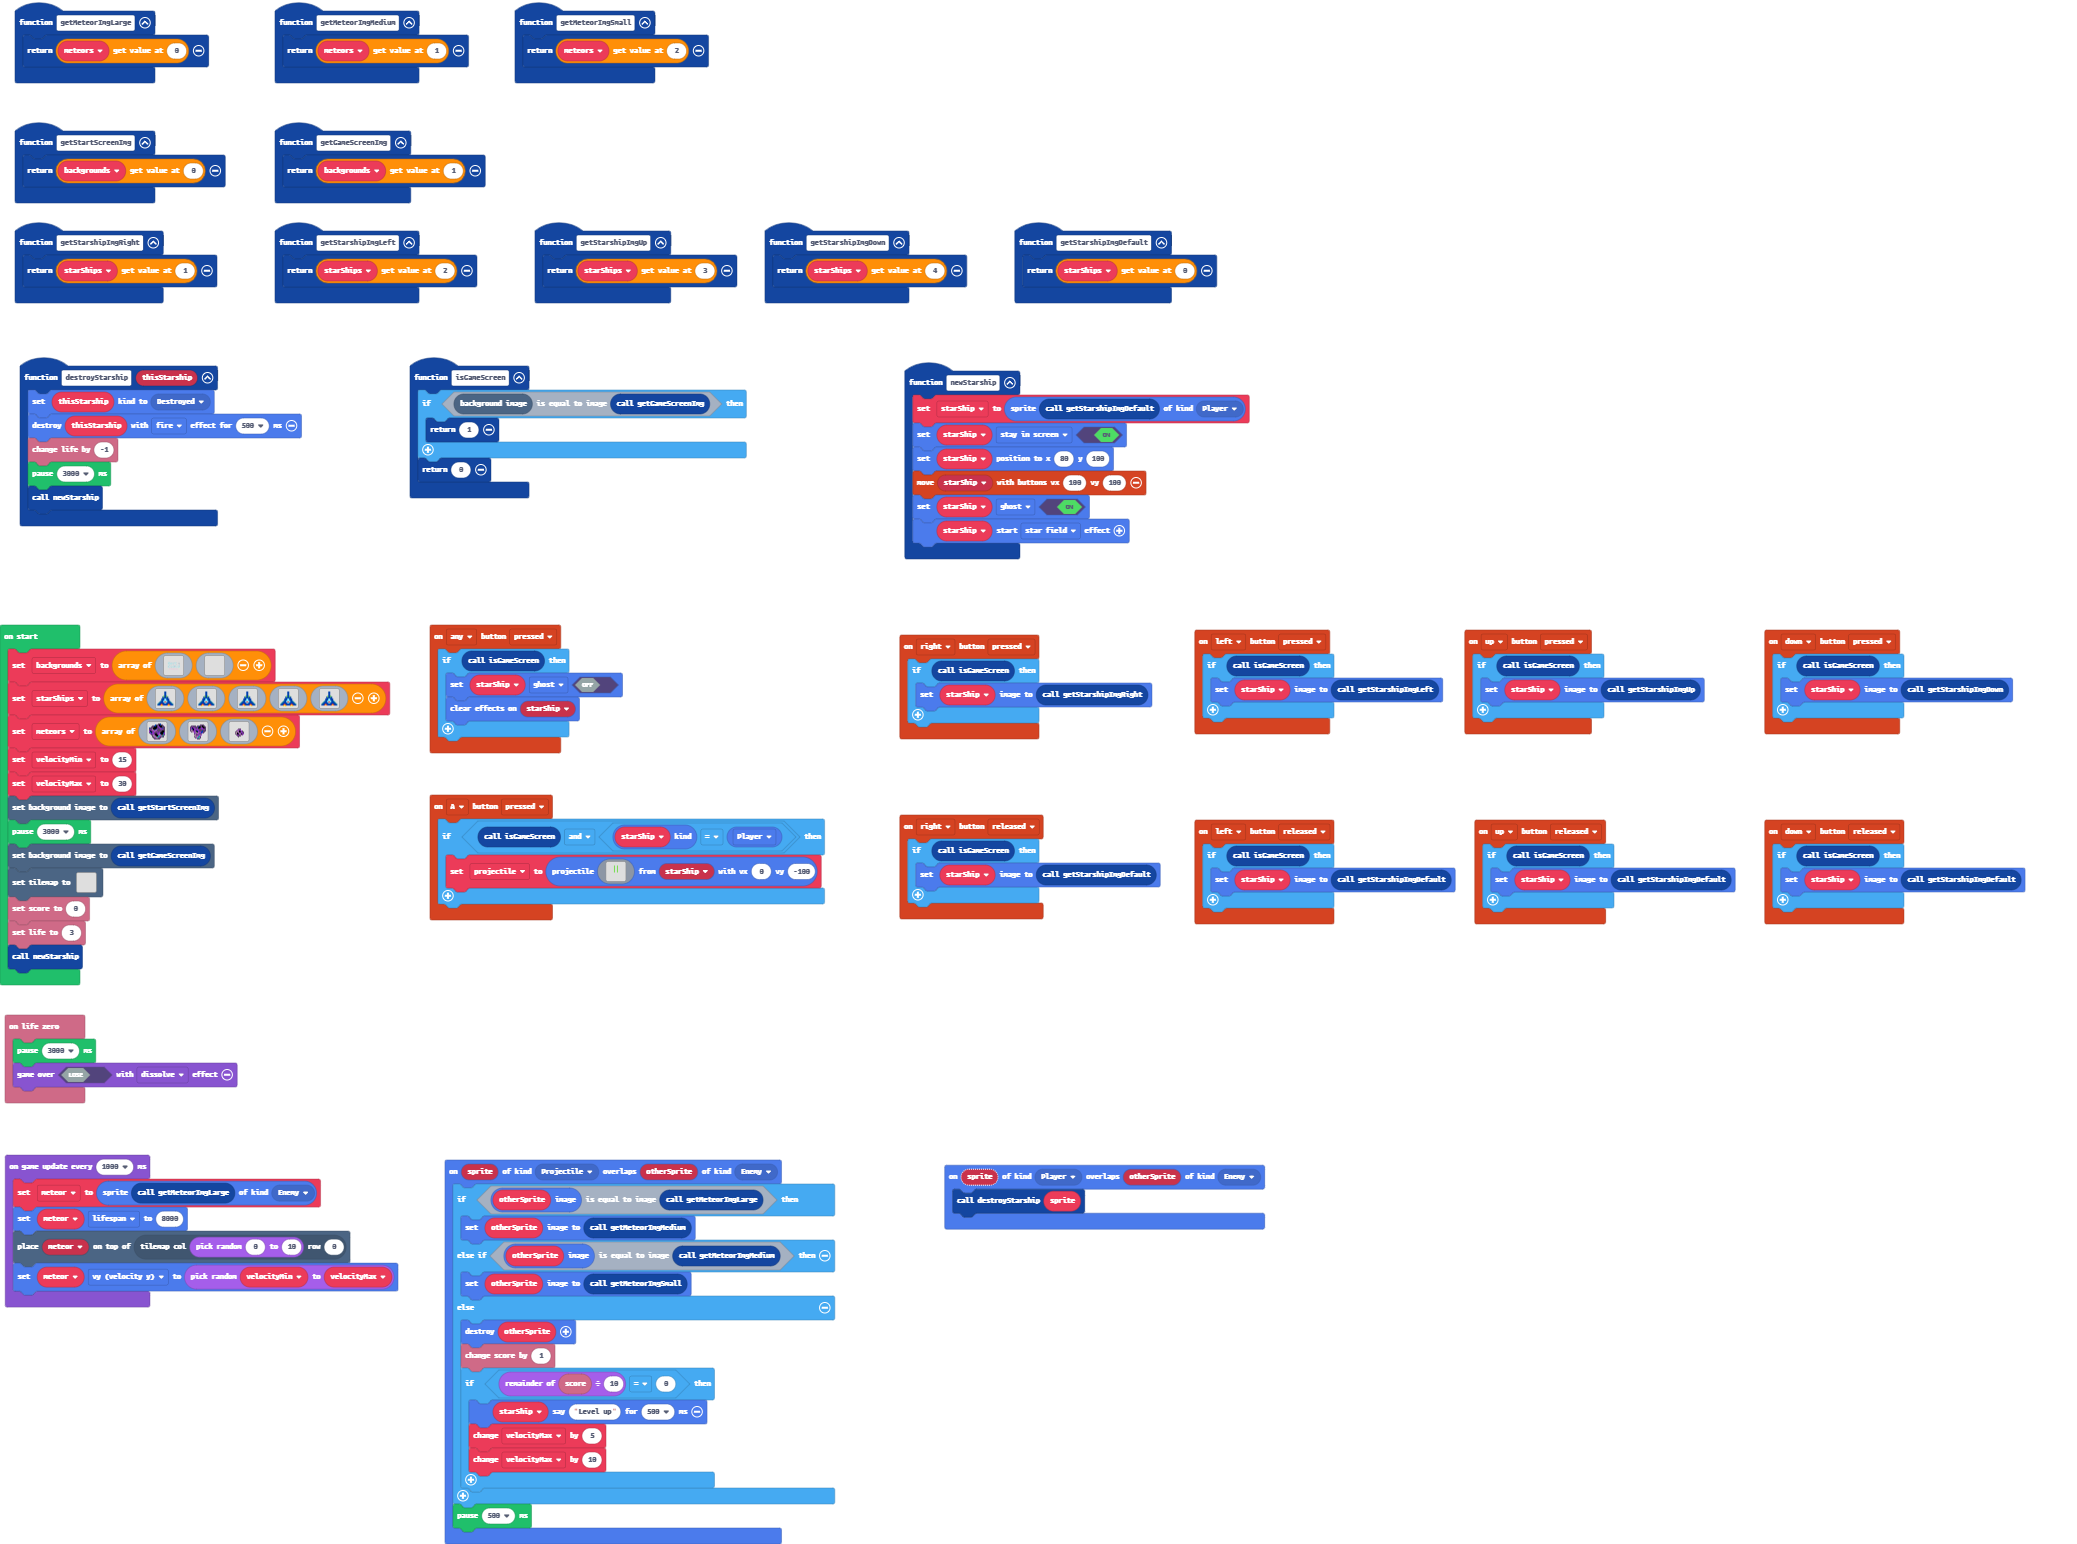
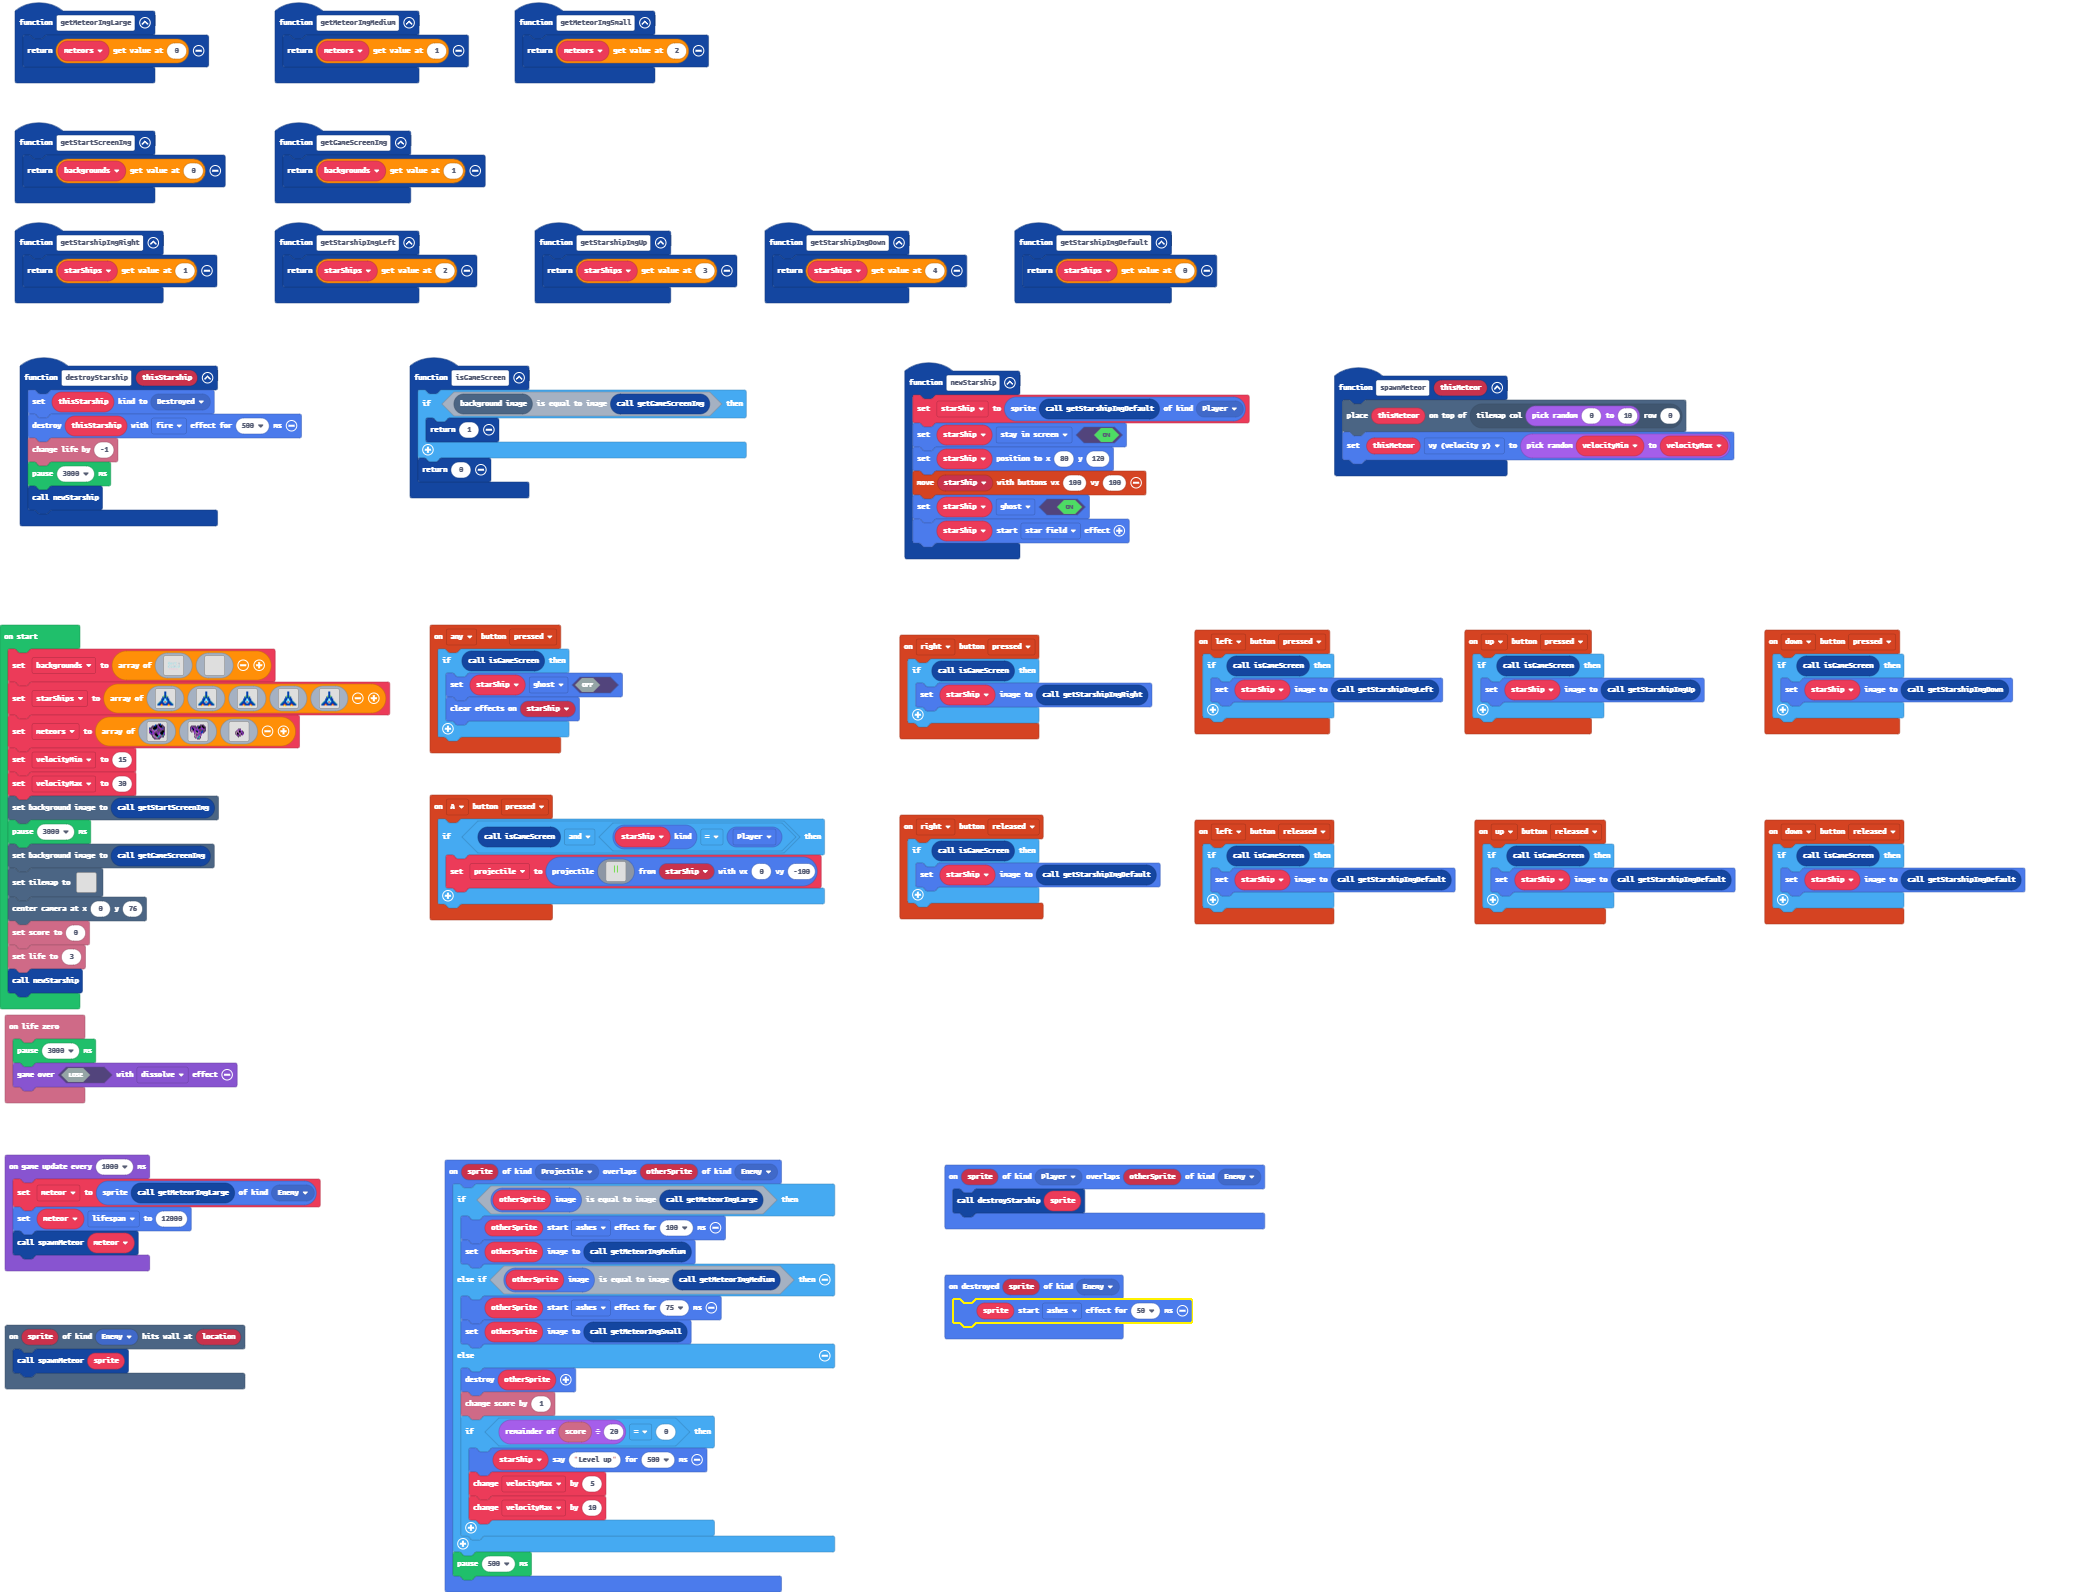
Let undestroyed meteors reappear

diff --git a/main.ts b/main.ts
@@ -72,6 +72,9 @@ controller.left.onEvent(ControllerButtonEvent.Released, function () {
 function getMeteorImgLarge () {
     return meteors[0]
 }
+scene.onHitWall(SpriteKind.Enemy, function (sprite, location) {
+    spawnMeteor(sprite)
+})
 controller.right.onEvent(ControllerButtonEvent.Pressed, function () {
     if (isGameScreen()) {
         starShip.setImage(getStarshipImgRight())
@@ -80,10 +83,14 @@ controller.right.onEvent(ControllerButtonEvent.Pressed, function () {
 function getStarshipImgUp () {
     return starShips[3]
 }
+function spawnMeteor (thisMeteor: Sprite) {
+    tiles.placeOnTile(thisMeteor, tiles.getTileLocation(randint(0, 10), 0))
+    thisMeteor.vy = randint(velocityMin, velocityMax)
+}
 function newStarship () {
     starShip = sprites.create(getStarshipImgDefault(), SpriteKind.Player)
     starShip.setFlag(SpriteFlag.StayInScreen, true)
-    starShip.setPosition(80, 100)
+    starShip.setPosition(80, 120)
     controller.moveSprite(starShip, 100, 100)
     starShip.setFlag(SpriteFlag.Ghost, true)
     starShip.startEffect(effects.starField)
@@ -111,6 +118,9 @@ function getStarshipImgLeft () {
 function getMeteorImgMedium () {
     return meteors[1]
 }
+sprites.onDestroyed(SpriteKind.Enemy, function (sprite) {
+    sprite.startEffect(effects.ashes, 50)
+})
 function destroyStarship (thisStarship: Sprite) {
     thisStarship.setKind(SpriteKind.Destroyed)
     thisStarship.destroy(effects.fire, 500)
@@ -126,13 +136,15 @@ function isGameScreen () {
 }
 sprites.onOverlap(SpriteKind.Projectile, SpriteKind.Enemy, function (sprite, otherSprite) {
     if (otherSprite.image.equals(getMeteorImgLarge())) {
+        otherSprite.startEffect(effects.ashes, 100)
         otherSprite.setImage(getMeteorImgMedium())
     } else if (otherSprite.image.equals(getMeteorImgMedium())) {
+        otherSprite.startEffect(effects.ashes, 75)
         otherSprite.setImage(getMeteorImgSmall())
     } else {
         otherSprite.destroy()
         info.changeScoreBy(1)
-        if (info.score() % 10 == 0) {
+        if (info.score() % 20 == 0) {
             starShip.say("Level up", 500)
             velocityMax += 5
             velocityMax += 10
@@ -146,6 +158,8 @@ sprites.onOverlap(SpriteKind.Player, SpriteKind.Enemy, function (sprite, otherSp
 let meteor: Sprite = null
 let projectile: Sprite = null
 let starShip: Sprite = null
+let velocityMax = 0
+let velocityMin = 0
 let meteors: Image[] = []
 let starShips: Image[] = []
 let backgrounds: Image[] = []
@@ -530,18 +544,18 @@ meteors = [img`
     . . . . . . . . . . . . . . . . 
     . . . . . . . . . . . . . . . . 
     `]
-let velocityMin = 15
-let velocityMax = 30
+velocityMin = 15
+velocityMax = 30
 scene.setBackgroundImage(getStartScreenImg())
 pause(3000)
 scene.setBackgroundImage(getGameScreenImg())
 tiles.setTilemap(tilemap`Level_0`)
+scene.centerCameraAt(0, 76)
 info.setScore(0)
 info.setLife(3)
 newStarship()
 game.onUpdateInterval(1000, function () {
     meteor = sprites.create(getMeteorImgLarge(), SpriteKind.Enemy)
-    meteor.lifespan = 8000
-    tiles.placeOnTile(meteor, tiles.getTileLocation(randint(0, 10), 0))
-    meteor.vy = randint(velocityMin, velocityMax)
+    meteor.lifespan = 12000
+    spawnMeteor(meteor)
 })

diff --git a/tilemap.g.ts b/tilemap.g.ts
@@ -2,6 +2,8 @@
 namespace myTiles {
     //% fixedInstance jres blockIdentity=images._tile
     export const transparency16 = image.ofBuffer(hex``);
+    //% fixedInstance jres blockIdentity=images._tile
+    export const tile1 = image.ofBuffer(hex``);
 
     helpers.registerTilemapFactory(function(name: string) {
         switch(helpers.stringTrim(name)) {
@@ -23,23 +25,18 @@ namespace myTiles {
 . . . . . . . . . . . . . . . . 
 . . . . . . . . . . . . . . . . 
 `, [myTiles.transparency16], TileScale.Sixteen)
-            case "Level_0": return tiles.createTilemap(hex`1000100000000000000000000000000000000000000000000000000000000000000000000000000000000000000000000000000000000000000000000000000000000000000000000000000000000000000000000000000000000000000000000000000000000000000000000000000000000000000000000000000000000000000000000000000000000000000000000000000000000000000000000000000000000000000000000000000000000000000000000000000000000000000000000000000000000000000000000000000000000000000000000000000000000000000000000000000000000000000000000000000000000000000000000000000000000000`, img`
-. . . . . . . . . . . . . . . . 
-. . . . . . . . . . . . . . . . 
-. . . . . . . . . . . . . . . . 
-. . . . . . . . . . . . . . . . 
-. . . . . . . . . . . . . . . . 
-. . . . . . . . . . . . . . . . 
-. . . . . . . . . . . . . . . . 
-. . . . . . . . . . . . . . . . 
-. . . . . . . . . . . . . . . . 
-. . . . . . . . . . . . . . . . 
-. . . . . . . . . . . . . . . . 
-. . . . . . . . . . . . . . . . 
-. . . . . . . . . . . . . . . . 
-. . . . . . . . . . . . . . . . 
-. . . . . . . . . . . . . . . . 
-. . . . . . . . . . . . . . . . 
[1 lines of base64/hex data omitted]
+. . . . . . . . . . 
+. . . . . . . . . . 
+. . . . . . . . . . 
+. . . . . . . . . . 
+. . . . . . . . . . 
+. . . . . . . . . . 
+. . . . . . . . . . 
+. . . . . . . . . . 
+. . . . . . . . . . 
+. . . . . . . . . . 
+2 2 2 2 2 2 2 2 2 2 
 `, [myTiles.transparency16], TileScale.Sixteen)
         }
         return null;
